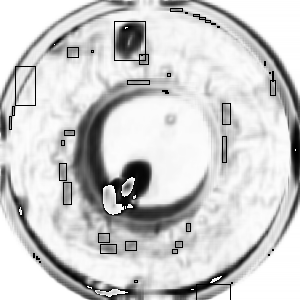
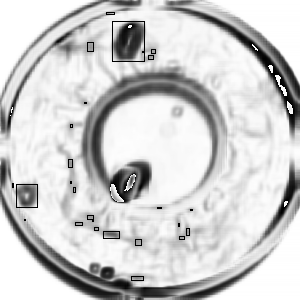
Change something

diff --git a/python_code/compare_eye.py b/python_code/compare_eye.py
@@ -45,11 +45,18 @@ def compare(img1, img2, i):
     cv2.imwrite("result/diff_detected" + str(i) + ".png", diff)
     # cv2.imwrite("thresh.png", thresh)
     # cv2.imwrite("img1_result.png", img1)
-    cv2.imwrite("result/right_detected" + str(i) + ".png", img2)
+    cv2.imwrite("result/eye_detected" + str(i) + ".png", img2)
 
 def start():
     global coordinate
-    PATH = "clean_datasets/right/"
+
+    l_or_r = input("Enter eye (l or r): ")
+    if l_or_r == 'l':
+        l_or_r = 'left'
+    elif l_or_r == 'r':
+        l_or_r = 'right'
+
+    PATH = "clean_datasets/" + l_or_r + "/"
     counter = 1
     for i in os.listdir(PATH):
         clean = cv2.imread(PATH+i)
@@ -78,5 +85,5 @@ def start():
             color = (0,255,0)
         if i[2] == 3:
             color = (255,0,0)
-        cv2.rectangle(coor, (i[0], i[1]), (i[0] + 3, i[1] + 3), color, 1)
+        cv2.rectangle(coor, (i[0], i[1]), (i[0] + 5, i[1] + 5), color, 1)
     cv2.imwrite("result/coor.png", coor)
